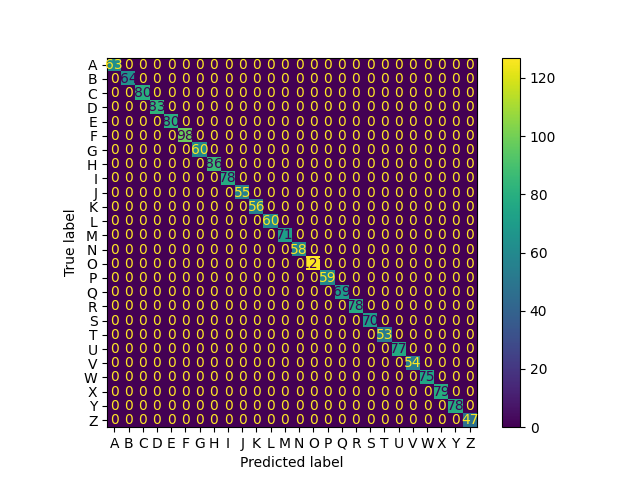
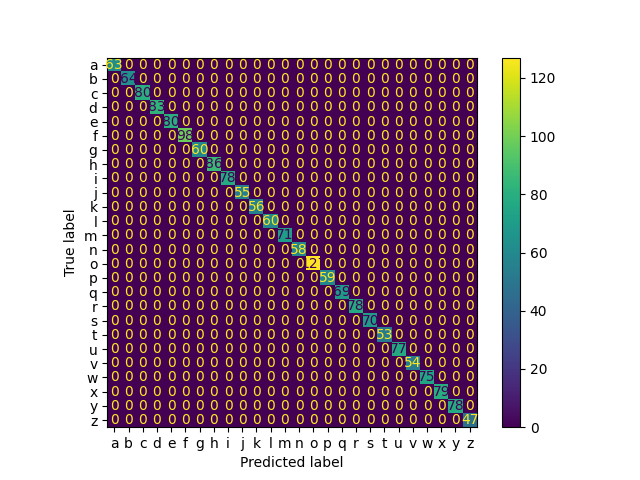
edit prediction.ino

diff --git a/Hardware/Prediction/XGBoost.h b/Hardware/Prediction/XGBoost.h
@@ -41533,57 +41533,57 @@ namespace Eloquent {
                     const char* idxToLabel(uint8_t classIdx) {
                         switch (classIdx) {
                             case 0:
-                            return "A";
+                            return "a";
                             case 1:
-                            return "B";
+                            return "b";
                             case 2:
-                            return "C";
+                            return "c";
                             case 3:
-                            return "D";
+                            return "d";
                             case 4:
-                            return "E";
+                            return "e";
                             case 5:
-                            return "F";
+                            return "f";
                             case 6:
-                            return "G";
+                            return "g";
                             case 7:
-                            return "H";
+                            return "h";
                             case 8:
-                            return "I";
+                            return "i";
                             case 9:
-                            return "J";
+                            return "j";
                             case 10:
-                            return "K";
+                            return "k";
                             case 11:
-                            return "L";
+                            return "l";
                             case 12:
-                            return "M";
+                            return "m";
                             case 13:
-                            return "N";
+                            return "n";
                             case 14:
-                            return "O";
+                            return "o";
                             case 15:
-                            return "P";
+                            return "p";
                             case 16:
-                            return "Q";
+                            return "q";
                             case 17:
-                            return "R";
+                            return "r";
                             case 18:
-                            return "S";
+                            return "s";
                             case 19:
-                            return "T";
+                            return "t";
                             case 20:
-                            return "U";
+                            return "u";
                             case 21:
-                            return "V";
+                            return "v";
                             case 22:
-                            return "W";
+                            return "w";
                             case 23:
-                            return "X";
+                            return "x";
                             case 24:
-                            return "Y";
+                            return "y";
                             case 25:
-                            return "Z";
+                            return "z";
                             default:
                             return "Houston we have a problem";
                         }

diff --git a/Hardware/Prediction/RandomForest.h b/Hardware/Prediction/RandomForest.h
@@ -9529,57 +9529,57 @@ namespace Eloquent {
                     const char* idxToLabel(uint8_t classIdx) {
                         switch (classIdx) {
                             case 0:
-                            return "A";
+                            return "a";
                             case 1:
-                            return "B";
+                            return "b";
                             case 2:
-                            return "C";
+                            return "c";
                             case 3:
-                            return "D";
+                            return "d";
                             case 4:
-                            return "E";
+                            return "e";
                             case 5:
-                            return "F";
+                            return "f";
                             case 6:
-                            return "G";
+                            return "g";
                             case 7:
-                            return "H";
+                            return "h";
                             case 8:
-                            return "I";
+                            return "i";
                             case 9:
-                            return "J";
+                            return "j";
                             case 10:
-                            return "K";
+                            return "k";
                             case 11:
-                            return "L";
+                            return "l";
                             case 12:
-                            return "M";
+                            return "m";
                             case 13:
-                            return "N";
+                            return "n";
                             case 14:
-                            return "O";
+                            return "o";
                             case 15:
-                            return "P";
+                            return "p";
                             case 16:
-                            return "Q";
+                            return "q";
                             case 17:
-                            return "R";
+                            return "r";
                             case 18:
-                            return "S";
+                            return "s";
                             case 19:
-                            return "T";
+                            return "t";
                             case 20:
-                            return "U";
+                            return "u";
                             case 21:
-                            return "V";
+                            return "v";
                             case 22:
-                            return "W";
+                            return "w";
                             case 23:
-                            return "X";
+                            return "x";
                             case 24:
-                            return "Y";
+                            return "y";
                             case 25:
-                            return "Z";
+                            return "z";
                             default:
                             return "Houston we have a problem";
                         }

diff --git a/Hardware/Prediction/SVC.h b/Hardware/Prediction/SVC.h
@@ -6209,57 +6209,57 @@ namespace Eloquent {
                     const char* idxToLabel(uint8_t classIdx) {
                         switch (classIdx) {
                             case 0:
-                            return "A";
+                            return "a";
                             case 1:
-                            return "B";
+                            return "b";
                             case 2:
-                            return "C";
+                            return "c";
                             case 3:
-                            return "D";
+                            return "d";
                             case 4:
-                            return "E";
+                            return "e";
                             case 5:
-                            return "F";
+                            return "f";
                             case 6:
-                            return "G";
+                            return "g";
                             case 7:
-                            return "H";
+                            return "h";
                             case 8:
-                            return "I";
+                            return "i";
                             case 9:
-                            return "J";
+                            return "j";
                             case 10:
-                            return "K";
+                            return "k";
                             case 11:
-                            return "L";
+                            return "l";
                             case 12:
-                            return "M";
+                            return "m";
                             case 13:
-                            return "N";
+                            return "n";
                             case 14:
-                            return "O";
+                            return "o";
                             case 15:
-                            return "P";
+                            return "p";
                             case 16:
-                            return "Q";
+                            return "q";
                             case 17:
-                            return "R";
+                            return "r";
                             case 18:
-                            return "S";
+                            return "s";
                             case 19:
-                            return "T";
+                            return "t";
                             case 20:
-                            return "U";
+                            return "u";
                             case 21:
-                            return "V";
+                            return "v";
                             case 22:
-                            return "W";
+                            return "w";
                             case 23:
-                            return "X";
+                            return "x";
                             case 24:
-                            return "Y";
+                            return "y";
                             case 25:
-                            return "Z";
+                            return "z";
                             default:
                             return "Houston we have a problem";
                         }
